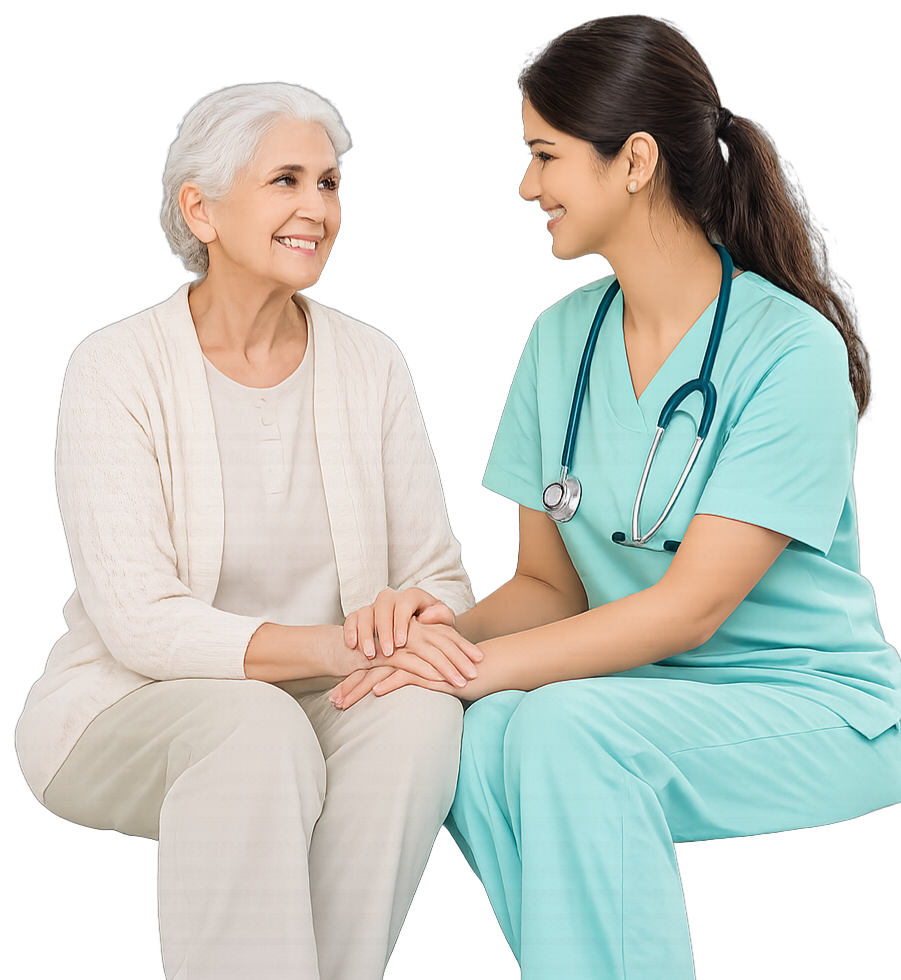
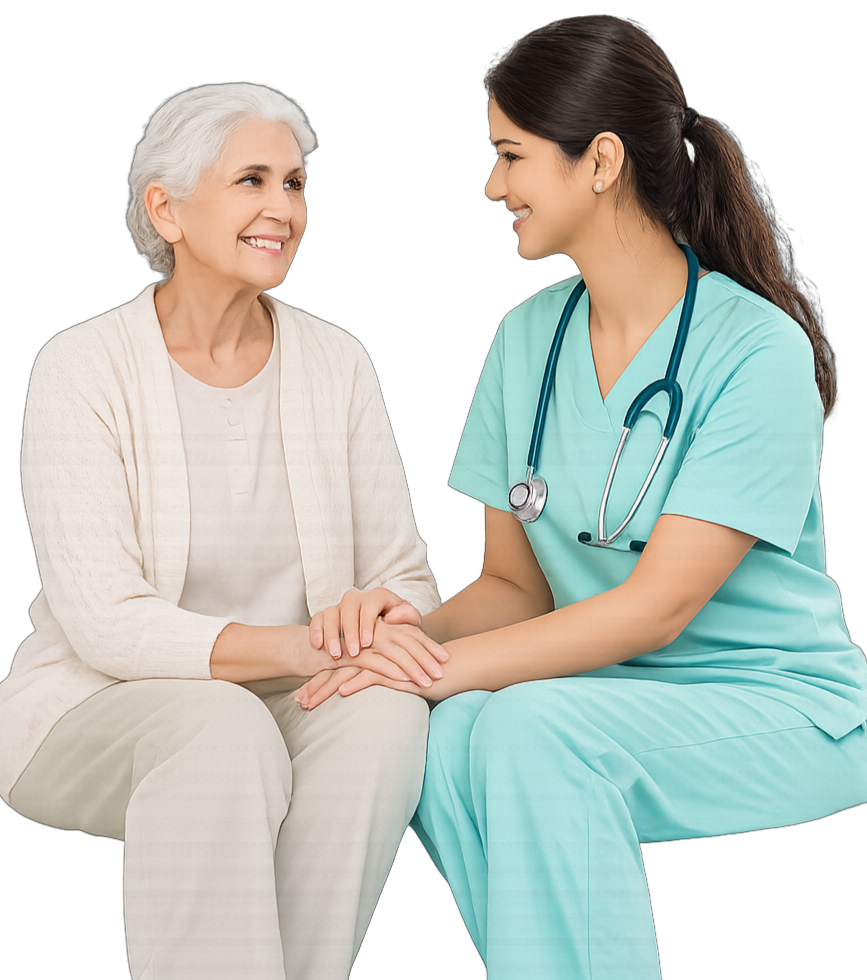
hover animation

diff --git a/lib/main.dart b/lib/main.dart
@@ -16,6 +16,52 @@ class MainApp extends StatelessWidget {
   }
 }
 
+class NavItem extends StatefulWidget {
+  final String text;
+  final VoidCallback onTap;
+
+  const NavItem({super.key, required this.text, required this.onTap});
+
+  @override
+  State<NavItem> createState() => _NavItemState();
+}
+
+class _NavItemState extends State<NavItem> {
+  bool isHover = false;
+
+  @override
+  Widget build(BuildContext context) {
+    return MouseRegion(
+      onEnter: (_) => setState(() => isHover = true),
+      onExit: (_) => setState(() => isHover = false),
+      child: GestureDetector(
+        onTap: widget.onTap,
+        child: Column(
+          mainAxisSize: MainAxisSize.min,
+          children: [
+            AnimatedDefaultTextStyle(
+              duration: const Duration(milliseconds: 200),
+              style: TextStyle(
+                color: isHover ? const Color(0xFF2A8DB8) : Colors.black,
+                fontSize: 16,
+                fontWeight: FontWeight.w500,
+              ),
+              child: Text(widget.text),
+            ),
+            const SizedBox(height: 4),
+            AnimatedContainer(
+              duration: const Duration(milliseconds: 200),
+              height: 2,
+              width: isHover ? 40 : 0,
+              color: const Color(0xFF2A8DB8),
+            ),
+          ],
+        ),
+      ),
+    );
+  }
+}
+
 class HomePage extends StatelessWidget {
   const HomePage({super.key});
 
@@ -86,9 +132,9 @@ class HomePage extends StatelessWidget {
   @override
   Widget build(BuildContext context) {
     return Scaffold(
-      backgroundColor: Colors.white, // ✅ pure white background
+      backgroundColor: Colors.white,
       appBar: AppBar(
-        toolbarHeight: 100,
+        toolbarHeight: 90,
         backgroundColor: Colors.white,
         surfaceTintColor: Colors.transparent,
         elevation: 0,
@@ -111,24 +157,27 @@ class HomePage extends StatelessWidget {
                         child: Row(
                           mainAxisSize: MainAxisSize.min,
                           children: [
-                            TextButton(
-                              onPressed: () {},
-                              child: const Text('Home'),
+                            NavItem(
+                              text: 'Home',
+                              onTap: () {},
                             ),
                             const SizedBox(width: 16),
-                            TextButton(
-                              onPressed: () {},
-                              child: const Text('Camps'),
+
+                            NavItem(
+                              text: 'Camps',
+                              onTap: () {},
                             ),
                             const SizedBox(width: 16),
-                            TextButton(
-                              onPressed: () {},
-                              child: const Text('About Us'),
+
+                            NavItem(
+                              text: 'About Us',
+                              onTap: () {},
                             ),
                             const SizedBox(width: 16),
-                            TextButton(
-                              onPressed: () {},
-                              child: const Text('Contact'),
+
+                            NavItem(
+                              text: 'Contact',
+                              onTap: () {},
                             ),
                             const SizedBox(width: 20),
                             ElevatedButton.icon(
@@ -213,7 +262,7 @@ class HomePage extends StatelessWidget {
                 ],
               ),
 
-              const SizedBox(height: 8),
+              const SizedBox(height: 5),
 
               const Text(
                 'Get healthcare at your doorstep',
@@ -284,7 +333,6 @@ class HomePage extends StatelessWidget {
 
               const SizedBox(height: 20),
 
-              // 🔥 BANNER BELOW CARDS
               Padding(
                 padding: const EdgeInsets.symmetric(horizontal: 30),
                 child: ClipRRect(
@@ -299,6 +347,88 @@ class HomePage extends StatelessWidget {
               ),
 
               const SizedBox(height: 40),
+
+              Container(
+                margin: const EdgeInsets.symmetric(horizontal: 30),
+                padding: const EdgeInsets.symmetric(vertical: 40, horizontal: 20),
+                decoration: BoxDecoration(
+                  color: const Color(0xFFE6ECF2),
+                  borderRadius: BorderRadius.circular(25),
+                  boxShadow: [
+                    BoxShadow(
+                      color: Colors.black.withValues(alpha: 0.08),
+                      blurRadius: 20,
+                      offset: const Offset(0, 8),
+                    ),
+                  ],
+                ),
+                child: Column(
+                  children: [
+                    const Text(
+                      'Patient Testimonials',
+                      style: TextStyle(
+                        fontSize: 26,
+                        fontWeight: FontWeight.bold,
+                      ),
+                    ),
+                    const SizedBox(height: 30),
+                    Container(
+                      width: 260,
+                      padding: const EdgeInsets.all(20),
+                      decoration: BoxDecoration(
+                        color: Colors.white,
+                        borderRadius: BorderRadius.circular(20),
+                        border: Border.all(color: Colors.black12),
+                      ),
+                      child: Column(
+                        children: [
+                          Row(
+                            children: [
+                              const CircleAvatar(
+                                radius: 25,
+                                backgroundColor: Colors.grey,
+                              ),
+                              const SizedBox(width: 12),
+                              Column(
+                                crossAxisAlignment: CrossAxisAlignment.start,
+                                children: const [
+                                  Text(
+                                    'Rahul S., 28',
+                                    style: TextStyle(
+                                      fontWeight: FontWeight.w600,
+                                      fontSize: 16,
+                                    ),
+                                  ),
+                                  SizedBox(height: 4),
+                                  Row(
+                                    children: [
+                                      Icon(Icons.star, color: Colors.orange, size: 16),
+                                      Icon(Icons.star, color: Colors.orange, size: 16),
+                                      Icon(Icons.star, color: Colors.orange, size: 16),
+                                      Icon(Icons.star, color: Colors.orange, size: 16),
+                                      Icon(Icons.star, color: Colors.orange, size: 16),
+                                    ],
+                                  ),
+                                ],
+                              ),
+                            ],
+                          ),
+                          const SizedBox(height: 16),
+                          const Text(
+                            'Booking a full-body checkup was incredibly seamless. The phlebotomist arrived right on time and was highly professional.',
+                            textAlign: TextAlign.center,
+                            style: TextStyle(
+                              fontSize: 14,
+                              height: 1.5,
+                              color: Colors.black87,
+                            ),
+                          ),
+                        ],
+                      ),
+                    ),
+                  ],
+                ),
+              ),
             ],
           ),
         ),
